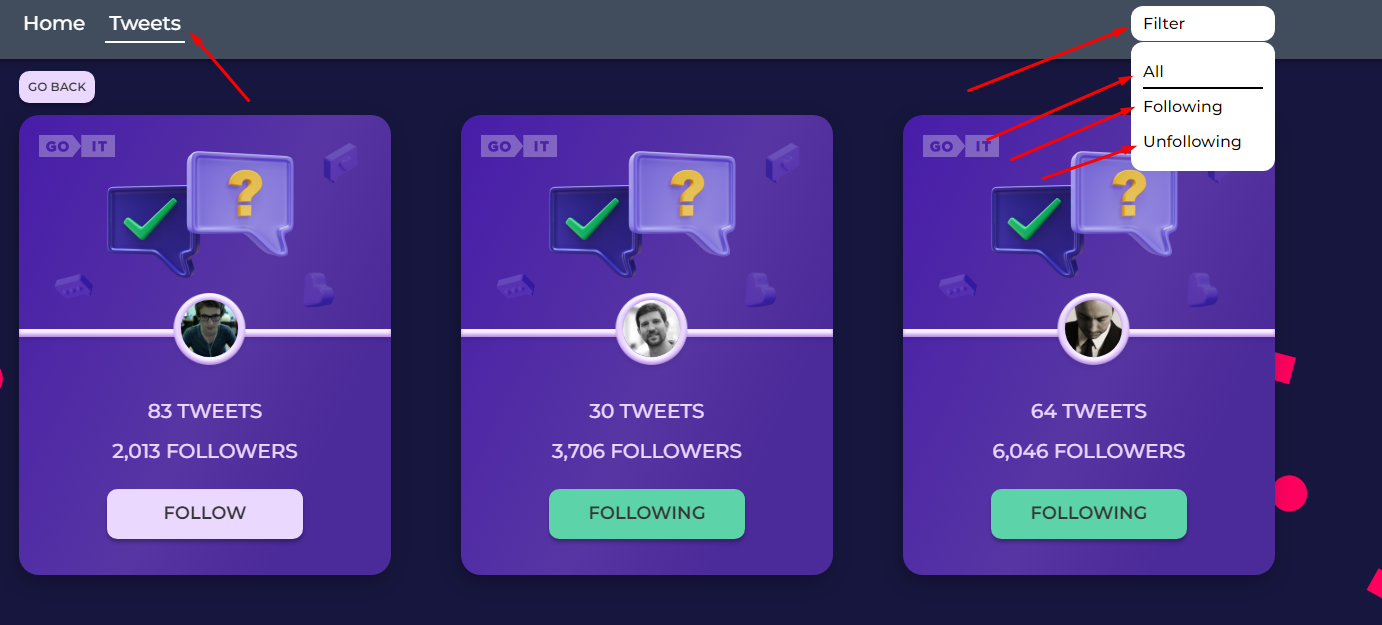
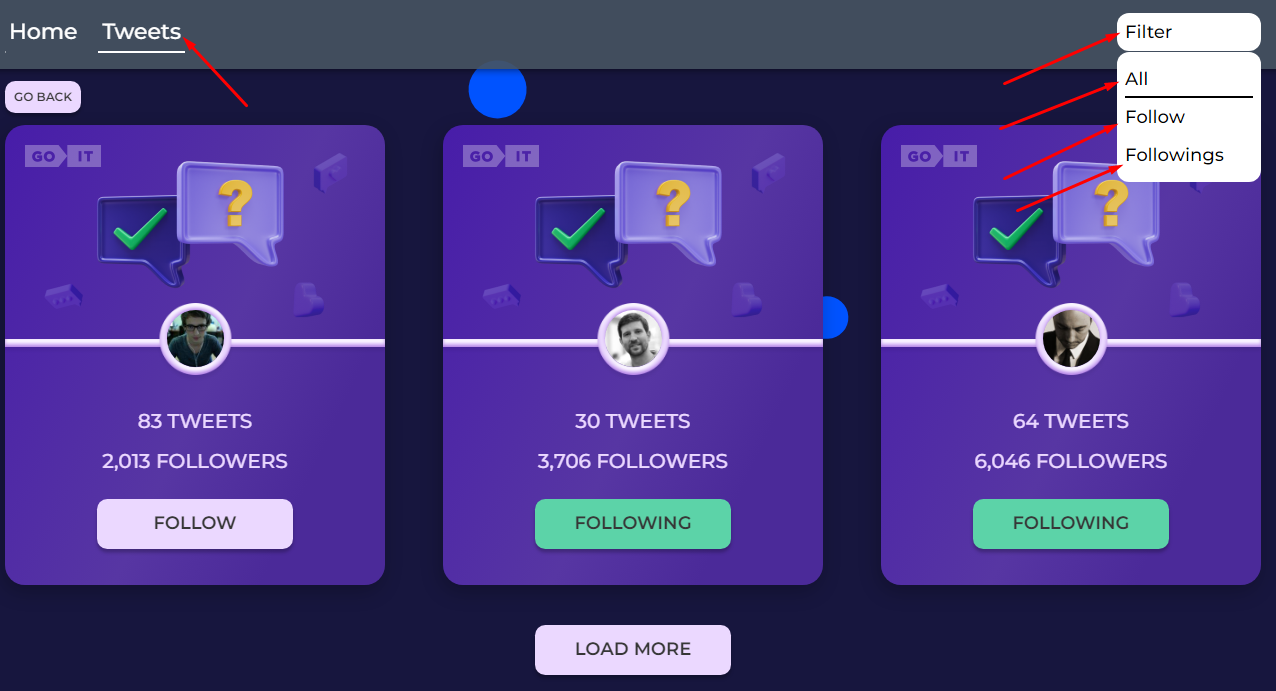
added adaptive layout for tweets page

diff --git a/src/components/TweetListItem/TweetListItem.styled.jsx b/src/components/TweetListItem/TweetListItem.styled.jsx
@@ -3,15 +3,15 @@ import ellipse from '../../images/ellipse.png';
 
 export const UserCard = styled.li`
   position: relative;
-  width: 380px;
+  width: 100%;
   height: 460px;
+  padding: 28px 36px 36px;
   color: #ebd8ff;
   text-transform: uppercase;
   font-weight: 500;
   font-size: 20px;
   line-height: 1.2;
   text-align: center;
-  text-transform: uppercase;
   background: linear-gradient(
     114.99deg,
     #471ca9 -0.99%,
@@ -21,12 +21,20 @@ export const UserCard = styled.li`
   box-shadow: -2.5777px 6.87386px 20.6216px rgba(0, 0, 0, 0.23);
   border-radius: 20px;
 
-  flex-basis: calc((100% / 3 - 70px));
-  margin-left: 70px;
-  margin-top: 70px;
-
   &:not(:last-child) {
-    margin-bottom: 24px;
+    @media (max-width: 767px) {
+      margin-bottom: 24px;
+    }
+  }
+
+  @media (min-width: 768px) {
+    flex-basis: calc((100% / 2 - 40px));
+    margin: 40px 0 0 40px;
+  }
+
+  @media (min-width: 1280px) {
+    flex-basis: calc((100% / 3 - 58px));
+    margin: 58px 0 0 58px;
   }
 `;
 
@@ -41,7 +49,7 @@ export const UserLogo = styled.img`
 export const UserBackgroundImage = styled.img`
   width: 308px;
   height: auto;
-  margin: 28px auto 88px;
+  margin: 0 auto 88px;
 `;
 
 export const HorizontalLine = styled.div`
@@ -60,7 +68,16 @@ export const UserAvatar = styled.div`
   width: 80px;
   height: 80px;
   top: 178px;
-  left: 150px;
+  left: 136px;
+  left: 128px;
+
+  @media (min-width: 768px) {
+    left: 136px;
+  }
+
+  @media (min-width: 1280px) {
+    left: 150px;
+  }
 
   background-image: url('${ellipse}');
   background-size: cover;

diff --git a/src/components/TweetListItem/TweetListItem.jsx b/src/components/TweetListItem/TweetListItem.jsx
@@ -21,8 +21,8 @@ import {
   UserUnfollowBtn,
 } from './TweetListItem.styled';
 
-const TweetListItem = ({ user }) => {
-  const { avatar, tweets, followers, following } = user;
+const TweetListItem = ({ userCard }) => {
+  const { user, avatar, tweets, followers, following } = userCard;
   const dispatch = useDispatch();
   const isLoading = useSelector(selectIsLoading);
   const error = useSelector(selectError);
@@ -35,7 +35,7 @@ const TweetListItem = ({ user }) => {
         <UserBackgroundImage src={backgroundImage} />
         <HorizontalLine />
         <UserAvatar>
-          <UserImage src={avatar} alt="User image" />
+          <UserImage src={avatar} alt={user} />
         </UserAvatar>
         <UserTweets>{tweets} tweets</UserTweets>
         <UserFollowers>
@@ -65,11 +65,12 @@ const TweetListItem = ({ user }) => {
 };
 
 TweetListItem.propTypes = {
-  user: PropTypes.shape({
+  userCard: PropTypes.shape({
     tweets: PropTypes.number.isRequired,
     avatar: PropTypes.string.isRequired,
     followers: PropTypes.number.isRequired,
     following: PropTypes.bool.isRequired,
+    user: PropTypes.string.isRequired,
   }),
 };
 

diff --git a/src/components/StatusFilter/StatusFilter.jsx b/src/components/StatusFilter/StatusFilter.jsx
@@ -32,20 +32,20 @@ const StatusFilter = () => {
             All
           </Button>
           <Button
-            selected={filter === statusFilters.following}
-            onClick={() => {
-              handleFilterChange(statusFilters.following);
-            }}
-          >
-            Following
-          </Button>
-          <Button
             selected={filter === statusFilters.unfollowing}
             onClick={() => {
               handleFilterChange(statusFilters.unfollowing);
             }}
           >
-            Unfollowing
+            Follow
+          </Button>
+          <Button
+            selected={filter === statusFilters.following}
+            onClick={() => {
+              handleFilterChange(statusFilters.following);
+            }}
+          >
+            Followings
           </Button>
         </FilterContainer>
       )}

diff --git a/src/components/Navigation/Navigation.styled.jsx b/src/components/Navigation/Navigation.styled.jsx
@@ -4,15 +4,18 @@ import { NavLink } from 'react-router-dom';
 export const StyledNavLink = styled(NavLink)`
   position: relative;
   font-weight: 500;
-  font-size: 20px;
+  font-size: 18px;
   padding: 8px 4px;
   color: inherit;
-  margin-right: 16px;
   display: flex;
   align-items: center;
   justify-content: center;
   flex-direction: column;
   overflow: hidden;
+
+  @media (min-width: 768px) {
+    font-size: 22px;
+  }
 
   &::after {
     position: absolute;
@@ -35,5 +38,10 @@ export const StyledNavLink = styled(NavLink)`
 export const MainNav = styled.nav`
   display: flex;
   align-items: center;
-  justify-content: center;
+  justify-content: space-between;
+  width: 144px;
+
+  @media (min-width: 768px) {
+    width: 180px;
+  }
 `;

diff --git a/src/components/StatusFilter/StatusFilter.styled.jsx b/src/components/StatusFilter/StatusFilter.styled.jsx
@@ -2,21 +2,33 @@ import styled from 'styled-components';
 
 export const FilterBtn = styled.div`
   position: relative;
-  width: 144px;
+  width: 120px;
+  font-size: 16px;
   border-radius: 12px;
   color: #000;
   background-color: #fff;
-  padding: 8px 12px;
+  padding: 8px;
   cursor: pointer;
+
+  @media (min-width: 768px) {
+    width: 144px;
+    font-size: 18px;
+  }
 `;
 
 export const FilterContainer = styled.div`
   position: absolute;
+  width: 120px;
   top: 36px;
   left: 0;
   display: flex;
   flex-direction: column;
-  padding: 12px;
+  padding: 8px;
   border-radius: 12px;
   background-color: #fff;
+
+  @media (min-width: 768px) {
+    width: 144px;
+    top: 39px;
+  }
 `;

diff --git a/src/components/TweetList/TweetList.styled.jsx b/src/components/TweetList/TweetList.styled.jsx
@@ -1,12 +1,23 @@
 import styled from 'styled-components';
 
 export const StyledTweetList = styled.ul`
-  font-weight: 700;
   display: flex;
-  flex-wrap: wrap;
-  margin-right: auto;
-  margin-bottom: 60px;
 
-  margin-left: calc(-1 * 70px);
-  margin-top: calc(-1 * 70px);
+  @media (max-width: 767px) {
+    flex-direction: column;
+  }
+
+  @media (min-width: 768px) {
+    margin-bottom: 40px;
+    flex-wrap: wrap;
+    margin-right: auto;
+
+    margin-left: calc(-1 * 40px);
+    margin-top: calc(-1 * 40px);
+  }
+
+  @media (min-width: 1280px) {
+    margin-left: calc(-1 * 58px);
+    margin-top: calc(-1 * 58px);
+  }
 `;

diff --git a/src/components/SharedLayout/SharedLayout.styled.jsx b/src/components/SharedLayout/SharedLayout.styled.jsx
@@ -1,7 +1,18 @@
 import styled from 'styled-components';
 
 export const Container = styled.div`
-  width: 1280px;
   padding: 12px;
   margin: 0 auto;
+
+  @media (min-width: 360px) {
+    width: 360px;
+  }
+
+  @media (min-width: 768px) {
+    width: 768px;
+  }
+
+  @media (min-width: 1280px) {
+    width: 1280px;
+  }
 `;

diff --git a/src/components/AppBar/AppBar.styled.jsx b/src/components/AppBar/AppBar.styled.jsx
@@ -7,7 +7,7 @@ export const Header = styled.header`
   z-index: 1100;
   background-color: rgba(70, 84, 97, 0.9);
 
-  padding: 4px 24px;
+  padding: 4px 0;
   color: #fff;
   box-shadow: 0px 2px 4px -1px rgba(0, 0, 0, 0.2),
     0px 4px 5px 0px rgba(0, 0, 0, 0.14), 0px 1px 10px 0px rgba(0, 0, 0, 0.12);

diff --git a/src/components/TweetList/TweetList.jsx b/src/components/TweetList/TweetList.jsx
@@ -9,7 +9,7 @@ const TweetList = () => {
   return (
     <StyledTweetList>
       {users.map(user => (
-        <TweetListItem key={user.id} user={user}></TweetListItem>
+        <TweetListItem key={user.id} userCard={user}></TweetListItem>
       ))}
     </StyledTweetList>
   );

diff --git a/src/components/Button/Button.styled.jsx b/src/components/Button/Button.styled.jsx
@@ -10,7 +10,7 @@ export const FilterButton = styled.button`
   background-color: transparent;
   color: inherit;
   overflow: hidden;
-  width: 120px;
+  width: 100%;
 
   &::after {
     position: absolute;
